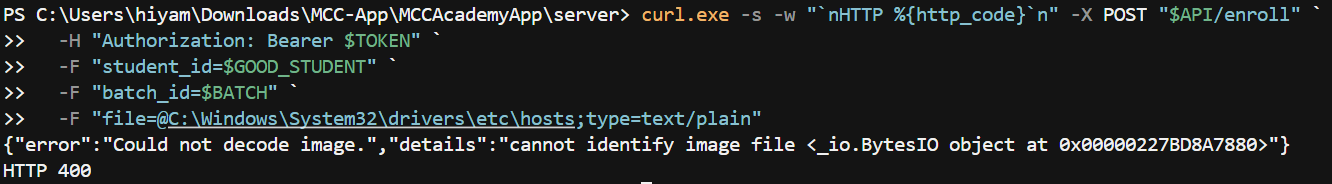
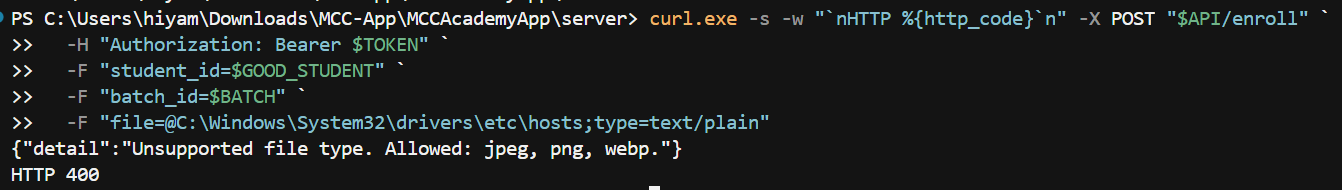
A4 Implemented and Tested

diff --git a/server/main.py b/server/main.py
@@ -191,7 +191,7 @@ _warn_supabase_key_for_server_writes()
 
 
 def _debug_enroll_images_enabled() -> bool:
-    v = os.environ.get("DEBUG_ENROLL_IMAGES", "1").strip().lower()
+    v = os.environ.get("DEBUG_ENROLL_IMAGES", "0").strip().lower()
     return v in ("1", "true", "yes", "on")
 
 

diff --git a/SECURITY_AUDIT.md b/SECURITY_AUDIT.md
@@ -12,7 +12,7 @@
 | Field | Value |
 |-------|-------|
 | Start date |07/28/2026 |
-| End date |07/28/2026 |
+| End date |07/29/2026 |
 | Environment tested | (local) / staging | UPDATE ONCE COMMITED
 | API base URL used | |
 | Advisor export filename | |
@@ -25,8 +25,8 @@
 - [DONE] A0 Design note complete
 - [DONE] A1 Leaked password protection
 - [DONE] A2 Object-level AuthZ
-- [ ] A3 Upload limits
-- [ ] A4 Debug enroll images off
+- [DONE] A3 Upload limits
+- [DONE] A4 Debug enroll images off
 - [ ] A5 `student_auth` RLS
 - [ ] A6 `face_api_audit_log`
 - [ ] A7 Cleartext only in development
@@ -222,20 +222,23 @@ _Explain your scope rule like you would to an interviewer:_
 
 | Item | Before | After |
 |------|--------|-------|
-| Default when env unset | | |
-| `server/.env` value | | |
-| Deleted `debug_enroll/` files? | yes / no / n/a | |
+| Default when env unset | 1 (ON) | 0 (OFF) |
+| `server/.env` value | unset | 0 |
+| Deleted `debug_enroll/` files? | n/a (no folder/files) | n/a |
 
 ### Evidence
 
-- [ ] Confirmed no new files appear in `server/debug_enroll/` after a test enroll with debug off
-- [ ] Restarted uvicorn after `.env` change
+- [DONE] Confirmed no new files appear in `server/debug_enroll/` after a test enroll with debug off
+- [DONE] Restarted uvicorn after `.env` change
 
 ### Lab questions
 
 1. Why is “debug save face images” dangerous on a shared machine or staging server?
+> Face photos are biometric data. If debug mode writes them to disk on a shared laptop or staging host, anyone with filesystem access (other users, ops, a later compromise) can copy them. That creates an unnecessary biometric store outside the product’s intended path (embeddings in the DB), often with no access controls or retention policy.
 2. How is this related to **data minimization** (privacy)?
+> Data minimization means you only collect and keep what you need. Enrollment already needs an image in memory to build an embedding; saving a second copy under `debug_enroll/` is extra retention you do not need for the feature to work. Turning debug off by default avoids holding face images longer (and in more places) than necessary.
 3. If debug must exist for local troubleshooting, what safeguards would you require (env, path, retention)?
+> Opt-in only via env (`DEBUG_ENROLL_IMAGES=1`), never on staging/prod. Write only to a local path that is gitignored (e.g. `server/debug_enroll/`), not into the repo or shared storage. Delete files as soon as debugging is done (or auto-expire them), and never commit or upload those images.
 
 ---
 
